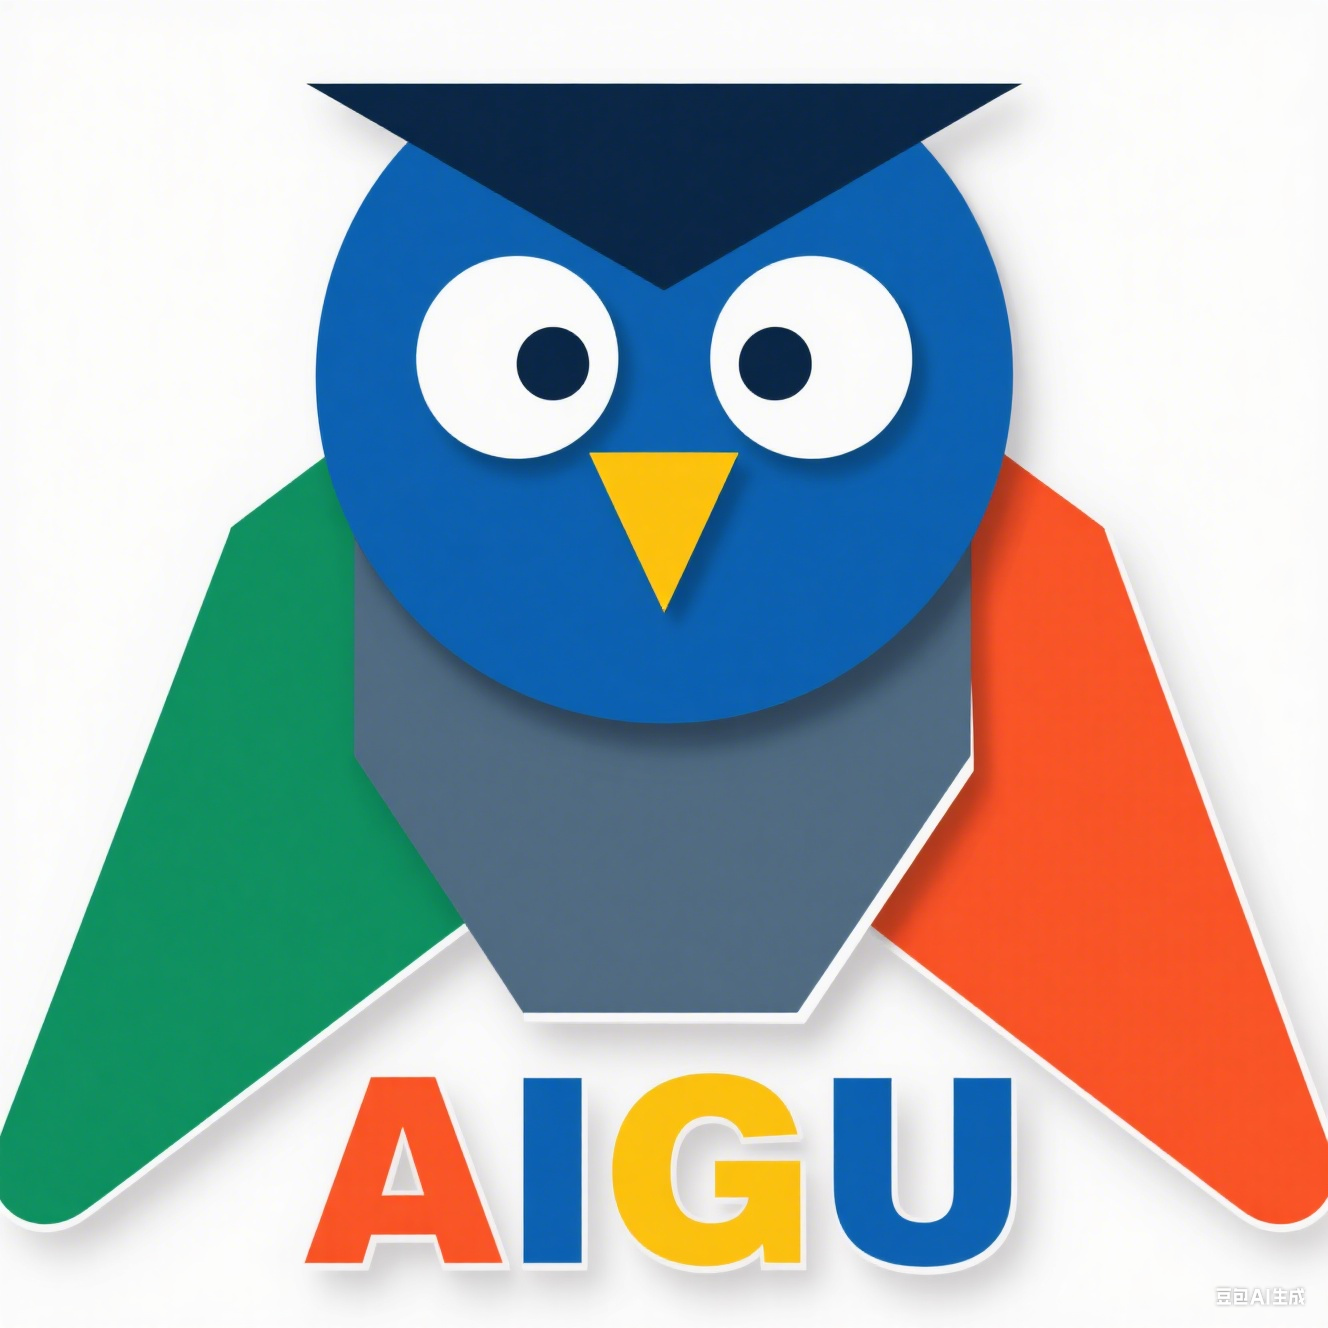
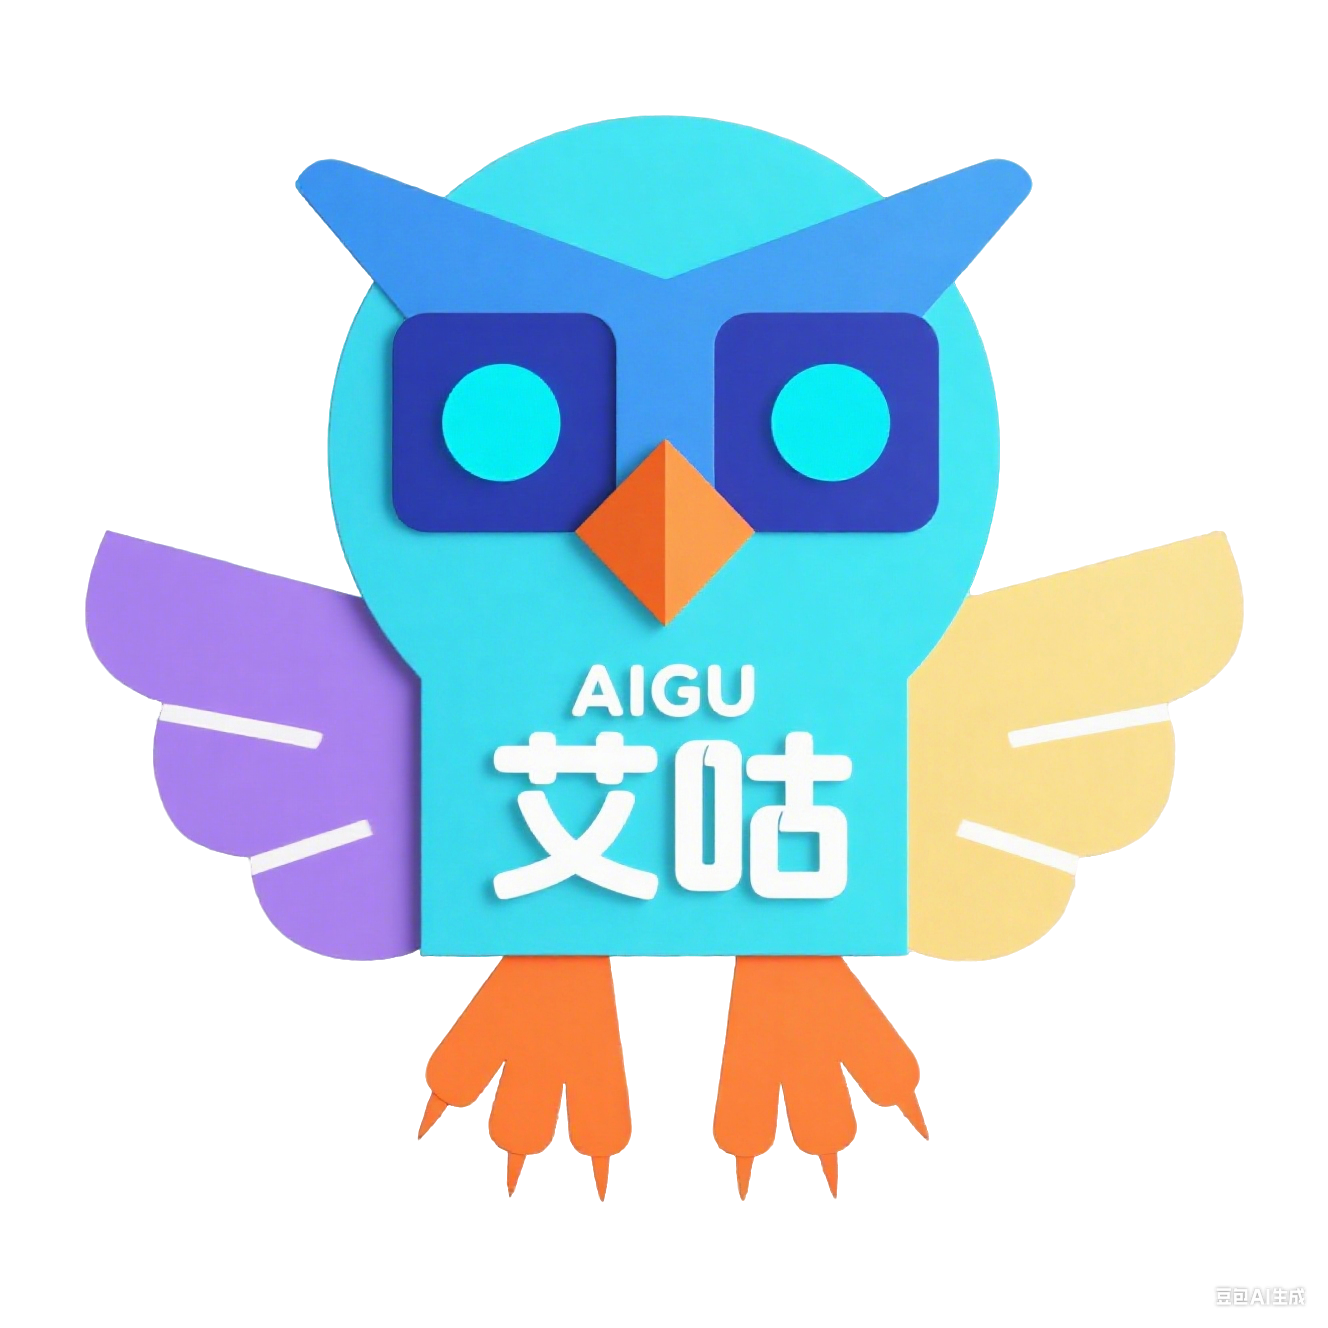
OK

diff --git a/ui/README.md b/ui/README.md
@@ -1,0 +1,9 @@
+# AIGU - 为AI而设计的现代化 WEB UI 框架（AI Generator UI）
+- 完整的现代化UI框架特性，依赖变更等
+- 完整的 WebComponts 支持 
+- 超简洁直观的 ”DOMJS” 语法
+- AI 编辑支持
+- 无"脚手架"设计，无”VDOM“，实时渲染
+- 其他特性继承 "wcex" 项目
+
+# 

diff --git a/README.cn.md b/README.cn.md
@@ -1,3 +1,6 @@
+<!-- image -->
+![AIGU](https://raw.githubusercontent.com/aigu/aigu/main/media/aigu.png)
+
 # AIGU - 为AI而设计的现代化 WEB UI 框架（AI Generator UI）,中文名: '艾咕'
 - 完整的现代化UI框架特性，依赖变更等
 - 完整的 __WebComponts__ 支持 
